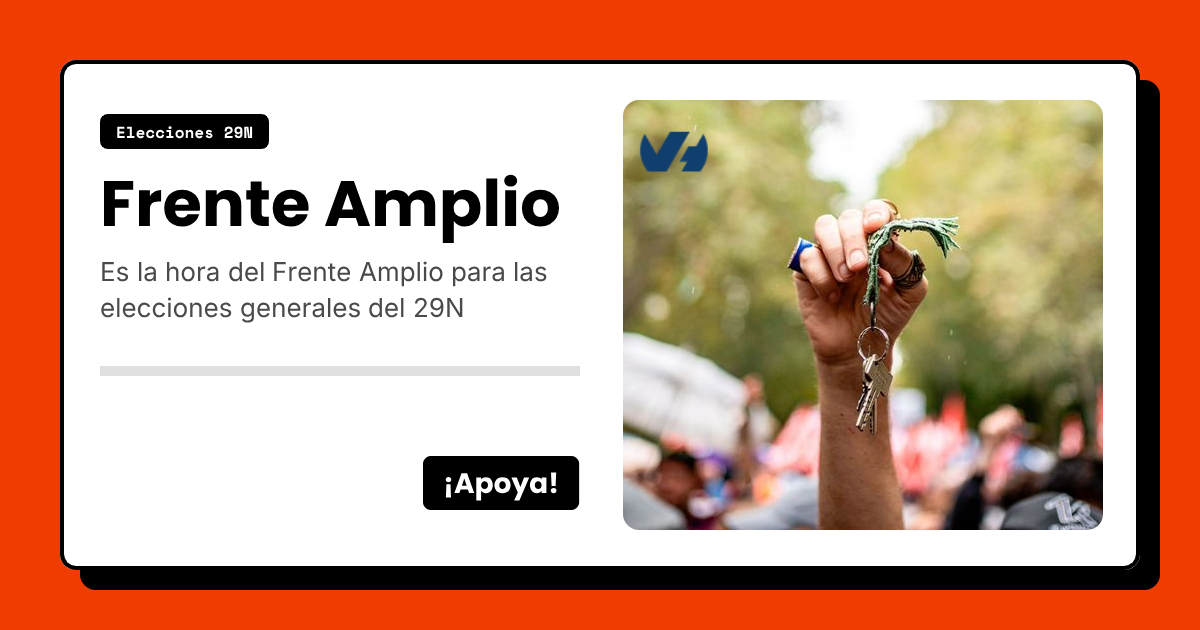
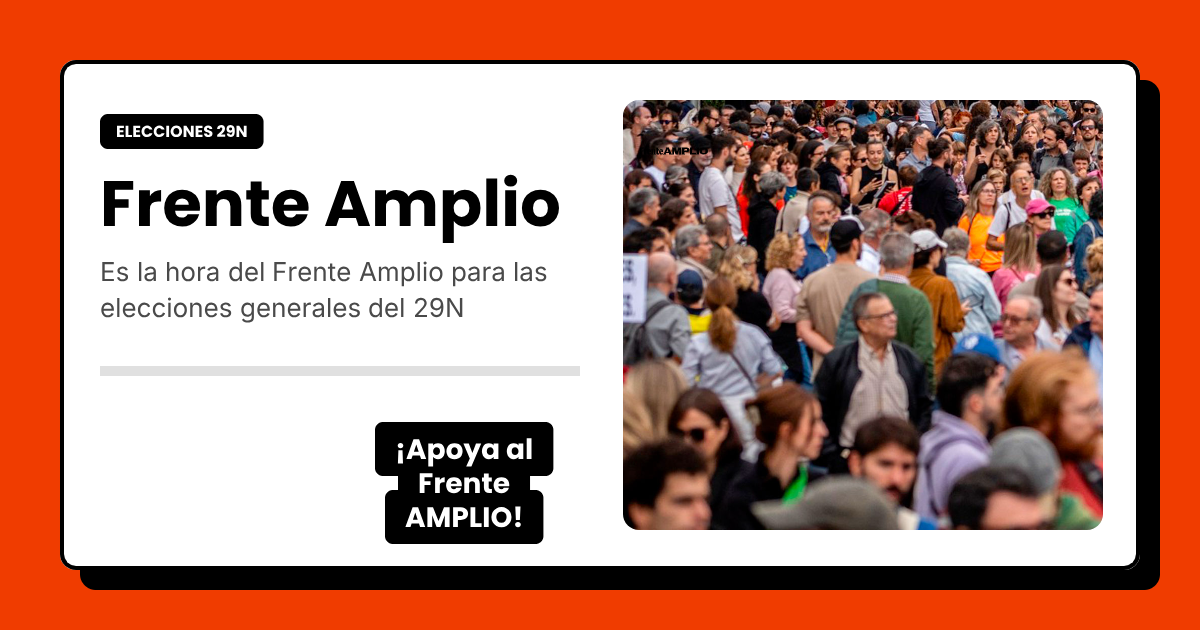
change hero image

Changed region(s): [[0.3083, 0.1508, 0.925, 0.8746], [0.0925, 0.181, 0.2467, 0.2413]]

diff --git a/gracias.html b/gracias.html
@@ -11,7 +11,7 @@
   <meta property="og:title" content="Gracias - Frente Amplio">
   <meta property="og:description" content="Gracias por apoyar al Frente Amplio. Comparte la campaña por WhatsApp, únete a la comunidad y sigue sus redes sociales.">
   <meta property="og:url" content="https://frenteamplio.info/gracias.html">
-  <meta property="og:image" content="https://frenteamplio.info/img/hero1.jpg">
+  <meta property="og:image" content="https://frenteamplio.info/img/og.png">
   <meta property="og:image:alt" content="Frente Amplio">
   <link rel="icon" type="image/png" href="/favicon/favicon-96x96.png" sizes="96x96" />
   <link rel="icon" type="image/svg+xml" href="/favicon/favicon.svg" />

diff --git a/legal.html b/legal.html
@@ -11,7 +11,7 @@
   <meta property="og:title" content="Aviso legal - Frente Amplio">
   <meta property="og:description" content="Consulta el aviso legal de frenteamplio.info: titularidad del sitio, condiciones de uso y responsabilidades.">
   <meta property="og:url" content="https://frenteamplio.info/legal.html">
-  <meta property="og:image" content="https://frenteamplio.info/img/hero1.jpg">
+  <meta property="og:image" content="https://frenteamplio.info/img/og.png">
   <meta property="og:image:alt" content="Frente Amplio">
   <link rel="icon" type="image/png" href="/favicon/favicon-96x96.png" sizes="96x96" />
   <link rel="icon" type="image/svg+xml" href="/favicon/favicon.svg" />

diff --git a/privacidad.html b/privacidad.html
@@ -11,7 +11,7 @@
   <meta property="og:title" content="Política de privacidad - Frente Amplio">
   <meta property="og:description" content="Política de privacidad y protección de datos de Frente Amplio.">
   <meta property="og:url" content="https://frenteamplio.info/privacidad.html">
-  <meta property="og:image" content="https://frenteamplio.info/img/hero1.jpg">
+  <meta property="og:image" content="https://frenteamplio.info/img/og.png">
   <meta property="og:image:alt" content="Frente Amplio">
   <link rel="icon" type="image/png" href="/favicon/favicon-96x96.png" sizes="96x96" />
   <link rel="icon" type="image/svg+xml" href="/favicon/favicon.svg" />

diff --git a/cookies.html b/cookies.html
@@ -11,7 +11,7 @@
   <meta property="og:title" content="Política de cookies - Frente Amplio">
   <meta property="og:description" content="Política de cookies de Frente Amplio.">
   <meta property="og:url" content="https://frenteamplio.info/cookies.html">
-  <meta property="og:image" content="https://frenteamplio.info/img/hero1.jpg">
+  <meta property="og:image" content="https://frenteamplio.info/img/og.png">
   <meta property="og:image:alt" content="Frente Amplio">
   <link rel="icon" type="image/png" href="/favicon/favicon-96x96.png" sizes="96x96" />
   <link rel="icon" type="image/svg+xml" href="/favicon/favicon.svg" />
